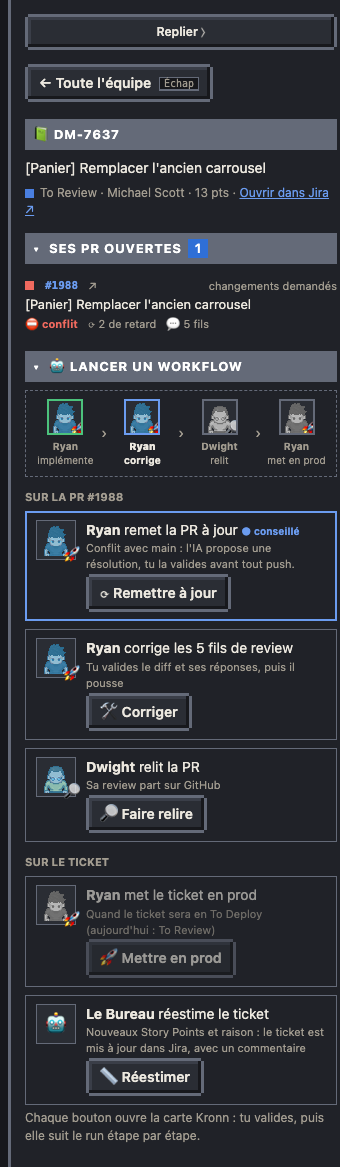
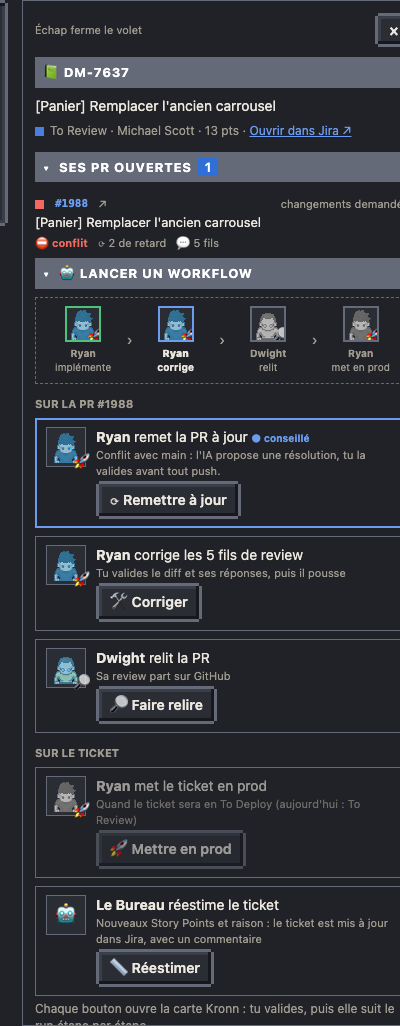
feat(kanban): tous les liens vers un ticket ou une PR ouvrent le Mur Kanban, la fiche dans le volet
Un ticket ou une PR cliqué n'importe où (fil, « Qui fait quoi », fiches, récap)
ouvre le Mur Kanban filtré sur la personne qui a le ticket ou sur l'auteur
de la PR (sa carte est donc visible), et sa fiche dans le volet. La fiche
ticket et la fiche PR du panneau disparaissent (ficheSel, sel « ticket: » et
« pr: ») : le panneau montre les personnes. Captures fiche-ticket et fiche-pr
refaites sur le volet ; tests kanban et panneau.

diff --git a/page/src/62-ticket.js b/page/src/62-ticket.js
@@ -24,10 +24,19 @@ function prsOf(key){
   const all=[...TEAM.people.flatMap(p=>(p.prs||[]).map(x=>({...x,author:p.name}))),...(TEAM.other_prs||[])];
   return all.filter(x=>(x.keys||[]).includes(key));
 }
-const ficheSel=k=>/^(ticket|pr):/.test(String(k)); // fiches d'un ticket ou d'une PR
 // depuis le Kanban (fenêtre), « ← Mur Kanban » la rouvre (winGo, 50-panel.js)
-function openTicket(key){if(WIN_OPEN==='kanban')return kbShow({t:'ticket',k:key});winGo('ticket:'+key);} // 63-kanban.js : le volet
-function openPr(id){if(WIN_OPEN==='kanban')return kbShow({t:'pr',id});winGo('pr:'+id);}
+// la fiche d'un ticket ou d'une PR s'ouvre dans le volet du Mur Kanban (63-kanban.js), filtré sur la personne qui a le
+// ticket ou l'auteur de la PR (sa carte est donc visible) ; Kanban déjà ouvert : le volet seul change
+const kbCharOf=p=>p?(chars.find(c=>c.person&&c.team&&c.team.id===p.id)||{}).key||'':'';
+function openTicket(key){
+  if(WIN_OPEN==='kanban')return kbShow({t:'ticket',k:key});
+  const p=TEAM&&TEAM.people.find(q=>q.tickets.some(t=>t.key===key)), un=TEAM&&(TEAM.unassigned||[]).some(t=>t.key===key);
+  openKanban({who:p?kbCharOf(p):un?'-':'',ticket:key});
+}
+function openPr(id){
+  if(WIN_OPEN==='kanban')return kbShow({t:'pr',id});
+  openKanban({who:kbCharOf(TEAM&&TEAM.people.find(q=>(q.prs||[]).some(x=>prId(x)===id))),pr:id});
+}
 // lien vers la fiche : <a data-tk="EW-1234"> ou <a data-pr="owner/dépôt#12"> n'importe où dans la page
 document.addEventListener('click',e=>{
   const a=e.target.closest&&e.target.closest('[data-tk],[data-pr]');
@@ -314,6 +323,6 @@ function renderPr(side,id){
     li.innerHTML=`<span class="dot" style="background:${ok?'var(--ok)':ko?'var(--err)':'var(--warn)'}"></span><span class="k" style="white-space:nowrap">${esc(hm(r._s))}</span>`+
       `<a href="#" data-who="${esc(c.key)}" style="color:var(--accent)">${esc(c.name)}</a><span>${esc(clean(r.wf_name))}</span>`;
     ul.appendChild(li);}
-  ul.addEventListener('click',e=>{const a=e.target.closest('[data-who]');if(a){e.preventDefault();select(a.dataset.who);}});
+  ul.addEventListener('click',e=>{const a=e.target.closest('[data-who]');if(a){e.preventDefault();e.stopPropagation();winGo(a.dataset.who);}});
   rb.appendChild(ul);
 }

diff --git a/page/src/50-panel.js b/page/src/50-panel.js
@@ -98,8 +98,6 @@ function backLabel(k){
   if(k==null)return "Toute l'équipe";
   if(byKey[k])return byKey[k].name;
   const s=String(k);
-  if(s.startsWith('ticket:'))return s.slice(7);
-  if(s.startsWith('pr:'))return 'PR #'+s.split('#').pop();
   if(s.startsWith('mail:'))return 'Courrier';
   if(s.startsWith('gate:'))return 'Validation';
   return {kanban:'Mur Kanban',calendar:'Calendrier',tv:'Mises en prod',emp:'Employé du sprint',planning:'Planning des crons',paie:'Fiche de paie',duck:'Le canard',support:'Support'}[s]||"Toute l'équipe";
@@ -130,11 +128,6 @@ addEventListener('keydown',e=>{
   goBack();
 },true);
 function drawSide(side){
-  if(ficheSel(sel)){ // fiche d'un ticket ou d'une PR (62-ticket.js)
-    backButton(side);
-    if(String(sel).startsWith('pr:'))renderPr(side,sel.slice(3));else renderTicket(side,sel.slice(7));
-    return;
-  }
   if(sel==='tv'||sel==='emp'||sel==='planning'||sel==='paie'||sel==='duck'||sel==='support'||String(sel).startsWith('gate:')||String(sel).startsWith('mail:')){
     backButton(side);
     if(String(sel).startsWith('gate:')){renderLoneGate(side,sel.slice(5));return;}

diff --git a/tests/kanban.test.js b/tests/kanban.test.js
@@ -32,3 +32,15 @@ test('« Non assigné » : les tickets sans personne', () => {
 test('la barre ne montre que les personnages qui ont des tickets', () => {
   assert.ok(J('kbPeople().every(c=>c.person&&c.team.tickets.length>0)'));
 });
+
+test('un lien de ticket ouvre le Kanban filtré sur la personne qui l\'a, la fiche dans le volet', () => {
+  run('openWide=(k,t,f)=>{WIN_OPEN=null;};'); // la fenêtre elle-même : pas dans ce test
+  const t = J('(()=>{const p=TEAM.people.find(q=>q.tickets.length);return {key:p.tickets[0].key,id:p.id};})()');
+  run(`WIN_OPEN=null;openTicket(${JSON.stringify(t.key)});`);
+  assert.deepEqual(J('KB_VOL'), {t: 'ticket', k: t.key});
+  assert.equal(J('byKey[KB_WHO].team.id'), t.id);
+  const pr = J('(()=>{const p=TEAM.people.find(q=>(q.prs||[]).length);return {id:prId(p.prs[0]),pid:p.id};})()');
+  run(`openPr(${JSON.stringify(pr.id)});`);
+  assert.deepEqual(J('KB_VOL'), {t: 'pr', id: pr.id});
+  assert.equal(J('byKey[KB_WHO].team.id'), pr.pid, 'filtré sur l\'auteur de la PR');
+});

diff --git a/page/src/35-state.js b/page/src/35-state.js
@@ -52,7 +52,7 @@ const otherRepo=repo=>!!repo&&/^[\w.-]+\/[\w.-]+$/.test(repo)&&String(repo).toLo
 // identité d'une PR (#56) : son dépôt et son numéro, jamais le numéro seul (front_api#16 n'est pas front_web#16).
 // repo absent (ancien dataset) ou celui de l'équipe : le dépôt principal (github_repo).
 const prRepo=x=>otherRepo(x&&x.repo)?x.repo:(CFG.github_repo||'');
-const prId=x=>prRepo(x)+'#'+x.n; // « owner/dépôt#n » : fiche (select('pr:'+id)), liens data-pr, dataset actions (prs.find(id))
+const prId=x=>prRepo(x)+'#'+x.n; // « owner/dépôt#n » : fiche (openPr(id), volet du Kanban), liens data-pr, dataset actions (prs.find(id))
 const prNum=x=>(otherRepo(x&&x.repo)?x.repo.split('/')[1]:'')+'#'+x.n; // affiché : « #2039 », « front_api#16 » ailleurs
 const repoKey=repo=>otherRepo(repo)?String(repo).toLowerCase():'';
 const samePr=(x,repo,n)=>!!x&&String(x.n)===String(n)&&repoKey(x.repo)===repoKey(repo);

diff --git a/page/src/63-kanban.js b/page/src/63-kanban.js
@@ -73,5 +73,7 @@ function kbVolet(m){
   else top.insertAdjacentHTML('beforeend','<span class="kbv-esc">Échap ferme le volet</span>');
   const x=document.createElement('button');x.type='button';x.className='bp-x';x.setAttribute('aria-label','Fermer le volet');x.textContent='×';x.onclick=kbClose;top.appendChild(x);
   v.appendChild(top);m.appendChild(v);
+  // un nom (auteur, agent du jour) : sa fiche dans le panneau, la fenêtre se ferme et « ← Mur Kanban » la rouvre
+  v.addEventListener('click',e=>{const a=e.target.closest('[data-who]');if(a&&byKey[a.dataset.who]){e.preventDefault();e.stopPropagation();winGo(a.dataset.who);}});
   if(KB_VOL.t==='pr')renderPr(v,KB_VOL.id);else renderTicket(v,KB_VOL.k);
 }

diff --git a/tests/panneau.test.js b/tests/panneau.test.js
@@ -59,7 +59,8 @@ test('quitter le Kanban par le portrait d\'un agent : sa fiche dans le panneau, 
   assert.deepEqual(J('OPENED'), ['kanban']);
 });
 
-test('hors fenêtre, un ticket s\'empile comme une vue ordinaire', () => {
-  run(`select(null);select(${JSON.stringify(who)});openTicket('DM-9');`);
-  assert.equal(J('backLabel(SEL_BACK[SEL_BACK.length-1])'), J(`byKey[${JSON.stringify(who)}].name`));
+test('hors du Kanban, un lien de ticket ouvre le Kanban (son volet), sans toucher au panneau', () => {
+  run(`OPENED=[];select(null);select(${JSON.stringify(who)});openTicket('DM-9');`);
+  assert.deepEqual(J('OPENED'), ['kanban']);
+  assert.equal(J('sel'), who);
 });

diff --git a/tools/shots.py b/tools/shots.py
@@ -174,11 +174,11 @@ SHOTS = {
     "fiche-ticket": (1400, 1400, AT(11) + "ACTIONS.estimate=true;ACTION_BINDS['bureau-estimate']={jira_ticket_key:'key'};const all=TEAM.people.flatMap(p=>p.tickets),prs=TEAM.people.flatMap(p=>p.prs);"
                      "ACTS={tickets:all.map(t=>({key:t.key})),prs:prs.map(x=>({id:prId(x),n:String(x.n),repo:prRepo(x)}))};"
                      "const pr=prs.find(x=>x.review==='changes'&&!x.draft&&(x.keys||[]).length);"
-                     "select('ticket:'+(pr?pr.keys[0]:(all.find(t=>t.cat==='deploy')||all[0]).key));", "#side"),
+                     "openTicket(pr?pr.keys[0]:(all.find(t=>t.cat==='deploy')||all[0]).key);", ".kbv"),
     # fiche d'une PR (lien du fil) : la PR #2016 de Darryl, relue deux fois par Dwight (variables de run ajoutées pour la démo)
     "fiche-pr": (1400, 1200, AT(18.5) + "byKey.dwight.runs.filter(r=>r._s<=T&&r.status==='Success').slice(0,2).forEach(r=>r.vars={'current_task.number':'2016',"
                  "'current_task.repo':CFG.github_repo});const all=TEAM.people.flatMap(p=>p.tickets),prs=TEAM.people.flatMap(p=>p.prs);"
-                 "ACTS={tickets:all.map(t=>({key:t.key})),prs:prs.map(x=>({id:prId(x),n:String(x.n),repo:prRepo(x)}))};select('pr:'+CFG.github_repo+'#2016');", "#side"),
+                 "ACTS={tickets:all.map(t=>({key:t.key})),prs:prs.map(x=>({id:prId(x),n:String(x.n),repo:prRepo(x)}))};openPr(CFG.github_repo+'#2016');", ".kbv"),
     "planning": (1400, 1400, AT(11) + "select('planning');", "#side"),
     # prochains crons en post-it au fond de la salle Serveurs (#60), survolés : la liste en clair (zoom sur la pièce)
     "postit-crons": (1400, 1000, AT(11) + "const r=cronNoteRect(),c=cv.getBoundingClientRect(),k=c.width/W;"

diff --git a/guide/fonctionnalites/07-fiches.md b/guide/fonctionnalites/07-fiches.md
@@ -2,7 +2,7 @@
 
 Clic sur un personnage (plan, panneau ou « Qui fait quoi ») : sa fiche s'ouvre dans le panneau.
 
-**Revenir** : le bouton « ← » en haut du panneau ramène à la vue d'avant, pas forcément à toute l'équipe : la fiche d'un agent ouverte depuis la Fiche de paie affiche « ← Fiche de paie », un ticket ouvert depuis la fiche d'un collègue « ← Gabe », depuis le Mur Kanban « ← Mur Kanban » (la fenêtre se rouvre). **Échap** fait la même chose (pas pendant une saisie ni quand une fenêtre est ouverte : Échap la ferme d'abord).
+**Revenir** : le bouton « ← » en haut du panneau ramène à la vue d'avant, pas forcément à toute l'équipe : la fiche d'un agent ouverte depuis la Fiche de paie affiche « ← Fiche de paie », la fiche d'un agent ouverte depuis le volet du Mur Kanban « ← Mur Kanban » (la fenêtre se rouvre telle quelle). **Échap** fait la même chose (pas pendant une saisie ni quand une fenêtre est ouverte : Échap la ferme d'abord).
 
 ![« ← Fiche de paie » : la fiche d'un agent ouverte depuis la Fiche de paie](../img/retour-panneau.png)
 
@@ -47,7 +47,7 @@ Sous « Personnaliser », sa ligne d'état tient sur une ligne (« Teste 7 ticke
 
 Les PR qui citent un de ses tickets sont sur la ligne du ticket : le bloc suivant, « Ses autres PR ouvertes », ne garde que les autres (sans ticket, ou d'un ticket hors de ses tickets du sprint). Le compteur « PR ouvertes » en haut de la fiche les compte toutes. Même présentation que « Ses tickets » : un groupe par état de review, bordé de sa couleur (changements demandés, en attente de review, approuvées, puis brouillons, repliés par défaut), la plus récemment active d'abord. Chaque PR : son numéro (lien GitHub), le ticket qu'elle cite (lien Jira, en gris) et le composant, son titre sans le préfixe « feat(DM-1): », puis sa dernière activité (« il y a 6 mois » : une PR oubliée se voit), en orange avec ⏳ quand elle attend une review depuis plus de 24 h.
 
-**Ticket** : clic sur un ticket (Kanban, fiche d'un collègue) : son statut et depuis quand, qui l'a, ses points, ses PR ouvertes avec leur review (comme « Ses tickets » : numéro, lien GitHub et état de review en tête, le titre entier dessous sans « feat: » ni la clé du ticket, puis conflit, retard et fils de review), le lien Jira, et les workflows à lancer dessus selon son statut.
+**Ticket** : un clic sur un ticket, où qu'il soit (Kanban, fil, « Qui fait quoi », une fiche), ouvre le Mur Kanban filtré sur la personne qui l'a, et sa fiche dans le volet, à droite des colonnes (voir [Murs du bureau](08-murs.md)) : son statut et depuis quand, qui l'a, ses points, ses PR ouvertes avec leur review (comme « Ses tickets » : numéro, lien GitHub et état de review en tête, le titre entier dessous sans « feat: » ni la clé du ticket, puis conflit, retard et fils de review), le lien Jira, et les workflows à lancer dessus selon son statut.
 
 Dans « 🤖 Lancer un workflow », chaque action montre **l'agent qui la fait** : son portrait pixel, l'icône de son métier, et une phrase (« **Nate** corrige les 5 fils de review »). L'agent est celui dont les workflows (`agents[].wf`, ou un personnage du pack) contiennent le workflow du bouton : son nom n'est jamais écrit en dur. « Remettre à jour » sans agent à lui est fait par l'agent de « Corriger » ; « Commenter », c'est toi (ton compte Jira) ; une action sans agent montre l'hologramme du Bureau. Un clic sur le portrait ouvre la fiche de l'agent. Les actions sont rangées par PR (« Sur la PR #1988 ») puis « Sur le ticket ». En tête, un bandeau montre **où en est le ticket** : implémente › corrige › relit › met en prod, avec l'agent de chaque étape (fait en vert, en cours en couleur, à venir en gris ; seulement les étapes que tu as branchées). L'action logique est encadrée, **● conseillé** : conflit ou retard sur la base → Remettre à jour, fils de review ouverts → Corriger, sinon Faire relire ; en To Deploy → Mettre en prod ; à faire sans PR → Implémenter. Une action pas encore possible est **grisée avec sa raison** (« quand le ticket sera en To Deploy (aujourd'hui : To Review) »). Quand l'agent est déjà dessus (un run en cours sur ce ticket ou cette PR), son bouton est grisé : « Nate est dessus depuis 10h12 ». Le coût moyen d'un run de l'agent (fiche de paie, 7 jours) s'affiche à côté quand il est connu.
 
@@ -74,7 +74,7 @@ Rôles et noms par défaut : `impl` → `ticket` (`jira_ticket_key`) ; `mep` →
 
 ![Fiche d'un ticket](../img/fiche-ticket.png)
 
-**PR** : clic sur une PR dans le fil. Son nom avec son dépôt, son titre, l'état de sa review, son auteur (sa fiche), le lien GitHub, le ticket qu'elle cite (sa fiche) et les runs d'agents du jour qui l'ont traitée (une revue de Dwight, une correction). Puis les mêmes boutons que dans la fiche du ticket, avec leur agent et l'action conseillée : **Remettre à jour**, **Corriger les retours**, **Faire relire** (PR pas encore approuvée) et **Mise en prod** (son ticket en To Deploy).
+**PR** : un clic sur une PR (fil, fiche d'un ticket ou d'un collègue) ouvre le Mur Kanban filtré sur son auteur, et sa fiche dans le volet ; depuis son ticket, « ← » y revient. Son nom avec son dépôt, son titre, l'état de sa review, son auteur (sa fiche), le lien GitHub, le ticket qu'elle cite (sa fiche) et les runs d'agents du jour qui l'ont traitée (une revue de Dwight, une correction). Puis les mêmes boutons que dans la fiche du ticket, avec leur agent et l'action conseillée : **Remettre à jour**, **Corriger les retours**, **Faire relire** (PR pas encore approuvée) et **Mise en prod** (son ticket en To Deploy).
 
 Dans « Ses PR ouvertes » (fiche d'un collègue, du boss ou d'un ticket), le numéro d'une PR ouvre sa fiche (« ↗ » ouvre GitHub) et chaque ligne montre son état : « ⛔ conflit », « ⟳ 3 de retard », « 💬 4 fils » non résolus.
 
